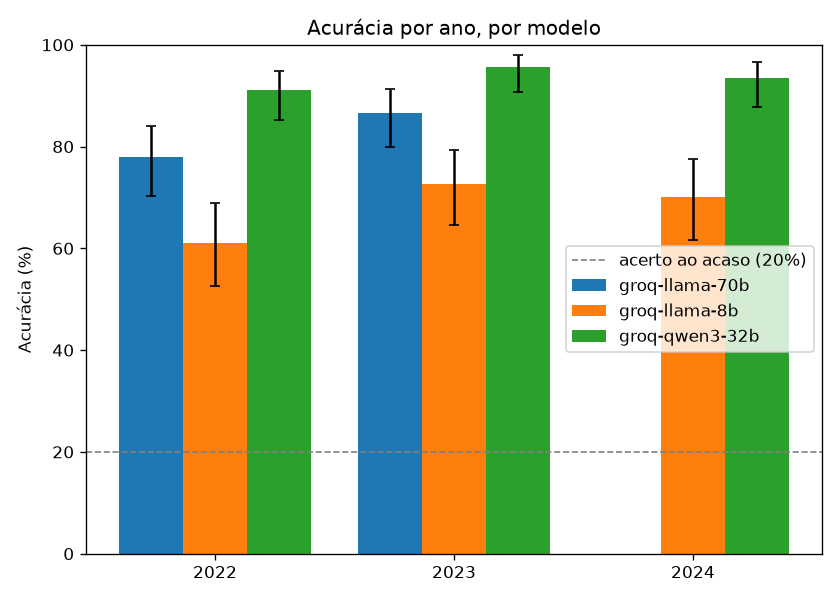
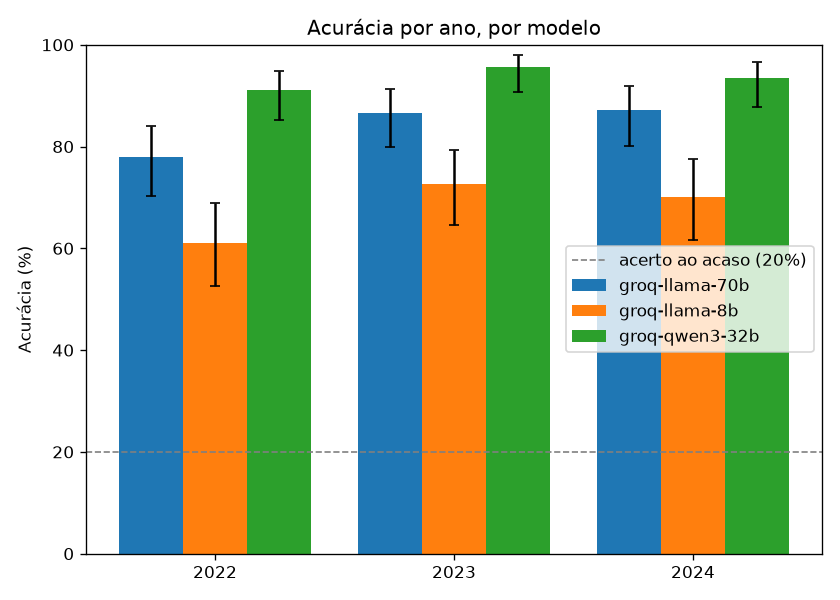
Completa o painel multi ano com os três modelos nos três anos
Fecha a lacuna do Llama 70B em 2024, agora com as 124 questões de texto, então o
painel cobre Qwen3 32B, Llama 3.3 70B e Llama 3.1 8B em 2022, 2023 e 2024, sem
buracos, e a ordem qwen3 > llama-70b > llama-8b se mantém em todos os anos. O texto
da página, do README e do notebook deixa de citar a barra que faltava e passa a
descrever a coleta em várias passadas por causa do teto de tokens do plano gratuito.

Changed region(s): [[0.7119, 0.15, 0.8048, 0.93]]

diff --git a/docs/index.md b/docs/index.md
@@ -129,12 +129,11 @@ estável ao longo do tempo.
 
 ![Acurácia por ano, por modelo](acuracia_por_ano.png)
 
-Aqui também apareceu um limite prático e instrutivo do plano gratuito. O Groq conta um teto de tokens
-por dia para cada modelo, e as questões de Matemática de 2024, que são mais longas, passaram da cota do
-Llama 70B naquele dia, então deixei a barra dele em 2024 de fora, para não comparar com uma amostra que
-ficaria enviesada justo na área mais difícil. Completar essa última lacuna fica para uma rodada futura,
-e essa própria restrição já diz algo sobre o que dá para medir usando só as camadas gratuitas dos
-provedores.
+Montar esse painel completo, com os três modelos nos três anos, exigiu paciência com o plano gratuito.
+O Groq conta um teto de tokens por dia para cada modelo, e as questões de Matemática, que são mais
+longas, esbarram nesse teto, então precisei coletar em mais de uma passada, à medida que a cota se
+renovava. Como o cache guarda tudo o que já foi respondido, isso não custou cota nem dinheiro, só
+tempo, mas é um lembrete concreto do que dá para medir usando só as camadas gratuitas dos provedores.
 
 ## O que ainda não está perfeito
 

diff --git a/README.md b/README.md
@@ -89,8 +89,8 @@ Para conferir se o retrato de 2025 se sustenta, estendi o benchmark para 2022, 2
 dataset aberto da Maritaca, rodando três modelos que cobrem a faixa de desempenho, Qwen3 32B, Llama
 3.3 70B e Llama 3.1 8B. A ordem entre eles se repete em todos os anos, sem cruzamento, o Qwen3 acima de
 90%, o Llama 70B entre 78 e 87% e o Llama 8B entre 61 e 73%, então a hierarquia dos modelos não foi um
-acaso da prova de um ano. A barra do Llama 70B em 2024 ficou de fora porque o teto de tokens por dia do
-plano gratuito cortou as questões de Matemática, mais longas, e não quis comparar com amostra enviesada.
+acaso da prova de um ano. Montar o painel completo exigiu coletar em mais de uma passada, por causa do
+teto de tokens por dia do plano gratuito, que aperta nas questões de Matemática, mais longas.
 
 ![Acurácia por ano, por modelo](docs/acuracia_por_ano.png)
 